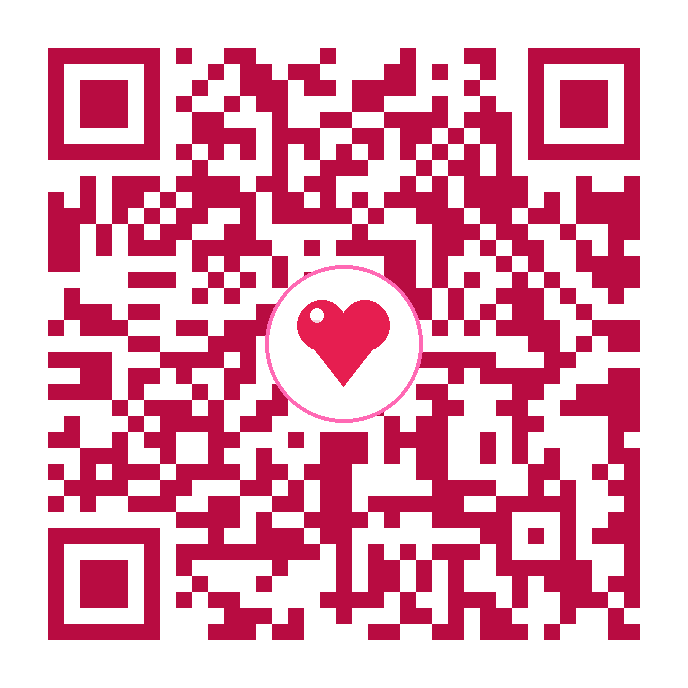
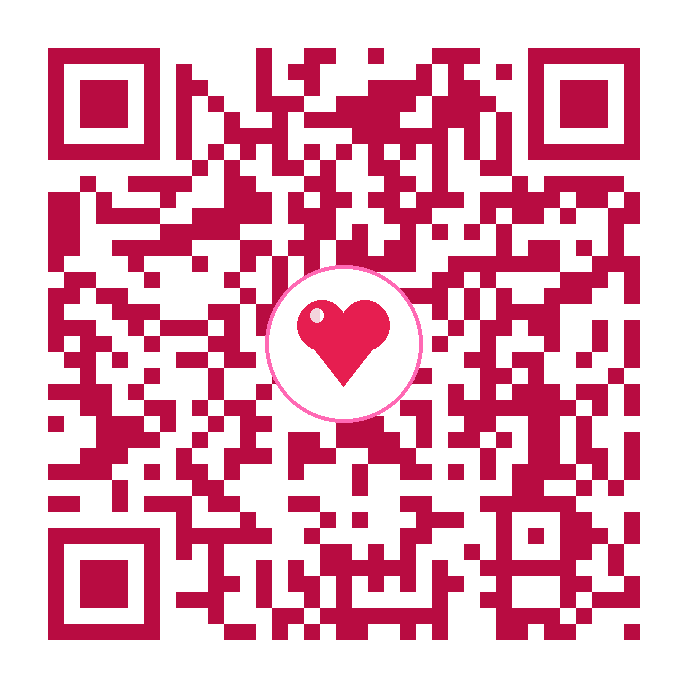
Optimización fluida 60fps, nuevo encuadre de foto y QR romántico

Changed region(s): [[0.061, 0.061, 0.9462, 0.9462], [0.8852, 0.3052, 0.9462, 0.3663]]

diff --git a/script.js b/script.js
@@ -34,10 +34,11 @@ document.addEventListener('DOMContentLoaded', () => {
   let musicInterval = null;
 
   // ==========================================================================
-  // MOTOR DE PARTÍCULAS EN CANVAS (LLUVIA Y EXPLOSIONES DE CORAZONES)
+  // MOTOR DE PARTÍCULAS EN CANVAS (ULTRA FLUIDO: 60-120 FPS)
+  // Utiliza sprites vectoriales pre-renderizados en GPU para cero lag
   // ==========================================================================
   const canvas = document.getElementById('particles-canvas');
-  const ctx = canvas.getContext('2d');
+  const ctx = canvas.getContext('2d', { alpha: true });
   let particles = [];
   let width = (canvas.width = window.innerWidth);
   let height = (canvas.height = window.innerHeight);
@@ -48,8 +49,31 @@ document.addEventListener('DOMContentLoaded', () => {
     height = canvas.height = window.innerHeight;
   });
 
-  // Lista de emojis y símbolos de amor para las partículas
-  const heartSymbols = ['❤', '💖', '💕', '💗', '💓', '✨', '🌸', '✨'];
+  // Pre-renderizar sprites de corazones una sola vez en memoria
+  const spriteColors = ['#ff2a6d', '#ff758c', '#d81159', '#ffbe0b', '#ffffff'];
+  const heartSprites = spriteColors.map(color => {
+    const offCanvas = document.createElement('canvas');
+    offCanvas.width = 44;
+    offCanvas.height = 44;
+    const offCtx = offCanvas.getContext('2d');
+    
+    offCtx.translate(22, 16);
+    offCtx.fillStyle = color;
+    offCtx.beginPath();
+    // Trazado de corazón paramétrico suave
+    offCtx.moveTo(0, 3);
+    offCtx.bezierCurveTo(-14, -12, -22, 6, 0, 22);
+    offCtx.bezierCurveTo(22, 6, 14, -12, 0, 3);
+    offCtx.fill();
+
+    // Brillo sutil blanco
+    offCtx.fillStyle = 'rgba(255, 255, 255, 0.45)';
+    offCtx.beginPath();
+    offCtx.arc(-6, -2, 2.5, 0, Math.PI * 2);
+    offCtx.fill();
+
+    return offCanvas;
+  });
 
   // Clase para partículas individuales
   class Particle {
@@ -57,47 +81,46 @@ document.addEventListener('DOMContentLoaded', () => {
       this.x = x;
       this.y = y;
       this.isExplosion = isExplosion;
-      this.symbol = heartSymbols[Math.floor(Math.random() * heartSymbols.length)];
+      this.sprite = heartSprites[Math.floor(Math.random() * heartSprites.length)];
       
       if (isExplosion) {
         // Velocidad radial en explosión
         const angle = Math.random() * Math.PI * 2;
-        const speed = Math.random() * 7 + 2.5;
+        const speed = Math.random() * 5.5 + 2.0;
         this.vx = Math.cos(angle) * speed;
-        this.vy = Math.sin(angle) * speed - 2.5; // Impulso hacia arriba
-        this.size = Math.random() * 22 + 14;
+        this.vy = Math.sin(angle) * speed - 2.0;
+        this.size = Math.random() * 18 + 14;
         this.opacity = 1;
-        this.decay = Math.random() * 0.015 + 0.008;
-        this.gravity = 0.12;
+        this.decay = Math.random() * 0.02 + 0.012;
+        this.gravity = 0.10;
         this.rotation = Math.random() * Math.PI;
-        this.vRotation = (Math.random() - 0.5) * 0.15;
+        this.vRotation = (Math.random() - 0.5) * 0.12;
       } else {
-        // Lluvia ambiental suave que sube flotando
-        this.vx = (Math.random() - 0.5) * 1.2;
-        this.vy = -(Math.random() * 1.5 + 0.8);
-        this.size = Math.random() * 18 + 12;
-        this.opacity = Math.random() * 0.7 + 0.3;
-        this.decay = 0.003;
+        // Lluvia ambiental suave que sube flotando elegantemente
+        this.vx = (Math.random() - 0.5) * 0.8;
+        this.vy = -(Math.random() * 1.4 + 0.8);
+        this.size = Math.random() * 16 + 12;
+        this.opacity = Math.random() * 0.6 + 0.35;
+        this.decay = 0.0035;
         this.gravity = 0;
         this.wobble = Math.random() * Math.PI * 2;
-        this.wobbleSpeed = Math.random() * 0.04 + 0.02;
-        this.rotation = (Math.random() - 0.5) * 0.4;
-        this.vRotation = (Math.random() - 0.5) * 0.02;
+        this.wobbleSpeed = Math.random() * 0.035 + 0.02;
+        this.rotation = (Math.random() - 0.5) * 0.3;
+        this.vRotation = (Math.random() - 0.5) * 0.015;
       }
     }
 
     update() {
       if (this.isExplosion) {
         this.vy += this.gravity;
-        this.vx *= 0.98;
+        this.vx *= 0.97;
         this.x += this.vx;
         this.y += this.vy;
         this.opacity -= this.decay;
         this.rotation += this.vRotation;
       } else {
-        // Movimiento ondulante suave
         this.wobble += this.wobbleSpeed;
-        this.x += this.vx + Math.sin(this.wobble) * 0.8;
+        this.x += this.vx + Math.sin(this.wobble) * 0.6;
         this.y += this.vy;
         this.opacity -= this.decay;
         this.rotation += this.vRotation;
@@ -105,30 +128,28 @@ document.addEventListener('DOMContentLoaded', () => {
     }
 
     draw(ctx) {
-      if (this.opacity <= 0) return;
+      if (this.opacity <= 0.01) return;
       ctx.save();
       ctx.translate(this.x, this.y);
       ctx.rotate(this.rotation);
-      ctx.globalAlpha = Math.max(0, this.opacity);
-      ctx.font = `${this.size}px serif`;
-      ctx.textAlign = 'center';
-      ctx.textBaseline = 'middle';
-      ctx.fillText(this.symbol, 0, 0);
+      ctx.globalAlpha = Math.max(0, Math.min(1, this.opacity));
+      const half = this.size / 2;
+      ctx.drawImage(this.sprite, -half, -half, this.size, this.size);
       ctx.restore();
     }
   }
 
-  // Crear ráfaga de corazones
-  function createBurst(x, y, count = 50) {
+  // Crear ráfaga de corazones limpia y sin saturar
+  function createBurst(x, y, count = 28) {
     for (let i = 0; i < count; i++) {
       particles.push(new Particle(x, y, true));
     }
   }
 
-  // Generador continuo de corazones flotantes de fondo
+  // Generador continuo de corazones flotantes de fondo (máximo 22 partículas)
   let ambientCounter = 0;
   function addAmbientHeart() {
-    if (particles.length < 80) {
+    if (particles.length < 22) {
       const x = Math.random() * width;
       const y = height + 20;
       particles.push(new Particle(x, y, false));
@@ -140,7 +161,7 @@ document.addEventListener('DOMContentLoaded', () => {
     ctx.clearRect(0, 0, width, height);
 
     ambientCounter++;
-    if (ambientCounter % 15 === 0) {
+    if (ambientCounter % 20 === 0) {
       addAmbientHeart();
     }
 
@@ -294,11 +315,11 @@ document.addEventListener('DOMContentLoaded', () => {
     // Activar animación de separación en el corazón exterior
     heartSplitCard.classList.add('opened');
 
-    // Explosión de corazones desde el centro
+    // Explosión de corazones desde el centro (ligera y fluida)
     const rect = heartSplitCard.getBoundingClientRect();
     const centerX = rect.left + rect.width / 2;
     const centerY = rect.top + rect.height / 2;
-    createBurst(centerX, centerY, 70);
+    createBurst(centerX, centerY, 24);
 
     // Ocultar caja exterior y revelar el corazón con la foto y textos
     setTimeout(() => {
@@ -307,7 +328,7 @@ document.addEventListener('DOMContentLoaded', () => {
       revealedContent.setAttribute('aria-hidden', 'false');
 
       // Segunda ráfaga suave de celebración
-      createBurst(centerX, centerY - 60, 40);
+      createBurst(centerX, centerY - 40, 14);
     }, 650);
   }
 
@@ -341,7 +362,7 @@ document.addEventListener('DOMContentLoaded', () => {
   btnBurst.addEventListener('click', (e) => {
     e.stopPropagation();
     const rect = btnBurst.getBoundingClientRect();
-    createBurst(rect.left + rect.width / 2, rect.top, 45);
+    createBurst(rect.left + rect.width / 2, rect.top, 18);
     playMelodyNote(523.25, 0, 0.8);
     playMelodyNote(659.25, 0.1, 0.8);
   });
@@ -350,7 +371,7 @@ document.addEventListener('DOMContentLoaded', () => {
   window.addEventListener('pointerdown', (e) => {
     // Si no es un botón ni modal, generar corazones en la posición del toque
     if (!e.target.closest('button') && !e.target.closest('.qr-modal-card')) {
-      createBurst(e.clientX, e.clientY, 10);
+      createBurst(e.clientX, e.clientY, 6);
     }
   });
 

diff --git a/index.html b/index.html
@@ -117,17 +117,6 @@
               <path d="M250,440 C240,430 40,300 15,190 C-10,80 70,10 170,15 C215,17 240,55 250,75 C260,55 285,17 330,15 C430,10 510,80 485,190 C460,300 260,430 250,440 Z" />
             </clipPath>
 
-            <!-- Filtro de resplandor neón mágico -->
-            <filter id="heart-glow" x="-30%" y="-30%" width="160%" height="160%">
-              <feGaussianBlur stdDeviation="10" result="blur1" />
-              <feGaussianBlur stdDeviation="20" result="blur2" />
-              <feMerge>
-                <feMergeNode in="blur2" />
-                <feMergeNode in="blur1" />
-                <feMergeNode in="SourceGraphic" />
-              </feMerge>
-            </filter>
-
             <!-- Gradiente para el borde del corazón -->
             <linearGradient id="heart-border-gradient" x1="0%" y1="0%" x2="100%" y2="100%">
               <stop offset="0%" stop-color="#ff758c" />
@@ -140,22 +129,32 @@
           <path d="M250,440 C240,430 40,300 15,190 C-10,80 70,10 170,15 C215,17 240,55 250,75 C260,55 285,17 330,15 C430,10 510,80 485,190 C460,300 260,430 250,440 Z" 
                 fill="#2b0014" />
 
-          <!-- Imagen con recorte de corazón, perfectamente encuadrada en el abrazo -->
+          <!-- Imagen con recorte de corazón, centrada con precisión en los rostros y el abrazo -->
           <g clip-path="url(#inner-heart-clip)">
-            <image href="foto.png" xlink:href="foto.png" x="5" y="-125" width="490" height="765" preserveAspectRatio="xMidYMid slice" />
+            <image href="foto.png" xlink:href="foto.png" x="-15" y="-220" width="530" height="832" preserveAspectRatio="xMidYMid slice" />
           </g>
 
-          <!-- Borde brillante exterior que contornea el corazón -->
+          <!-- Halo de luz neón ultra fluido (100% vectorial, 0ms de lag) -->
+          <path d="M250,440 C240,430 40,300 15,190 C-10,80 70,10 170,15 C215,17 240,55 250,75 C260,55 285,17 330,15 C430,10 510,80 485,190 C460,300 260,430 250,440 Z" 
+                fill="none" 
+                stroke="rgba(255, 42, 109, 0.22)" 
+                stroke-width="26" />
+
+          <path d="M250,440 C240,430 40,300 15,190 C-10,80 70,10 170,15 C215,17 240,55 250,75 C260,55 285,17 330,15 C430,10 510,80 485,190 C460,300 260,430 250,440 Z" 
+                fill="none" 
+                stroke="rgba(255, 75, 114, 0.45)" 
+                stroke-width="13" />
+
+          <!-- Borde brillante principal con degradado cálido -->
           <path d="M250,440 C240,430 40,300 15,190 C-10,80 70,10 170,15 C215,17 240,55 250,75 C260,55 285,17 330,15 C430,10 510,80 485,190 C460,300 260,430 250,440 Z" 
                 fill="none" 
                 stroke="url(#heart-border-gradient)" 
-                stroke-width="7" 
-                filter="url(#heart-glow)" />
+                stroke-width="6" />
 
           <!-- Borde interior dorado delicado -->
           <path d="M250,425 C242,415 55,290 32,188 C10,88 82,24 172,28 C212,30 235,62 250,82 C265,62 288,30 328,28 C418,24 490,88 468,188 C445,290 258,415 250,425 Z" 
                 fill="none" 
-                stroke="rgba(255, 255, 255, 0.6)" 
+                stroke="rgba(255, 255, 255, 0.7)" 
                 stroke-width="2" />
         </svg>
 
@@ -216,7 +215,7 @@
         <img src="qr_romantico.png" alt="Código QR Romántico" id="qrImage" />
       </div>
 
-      <p class="qr-url-hint">URL local: <code id="qrUrlText">http://192.168.0.8:8000</code></p>
+      <p class="qr-url-hint">Enlace: <code id="qrUrlText">https://tinyurl.com/mi-amor-bonito-para-ti</code></p>
       
       <div class="qr-modal-actions">
         <a href="qr_romantico.png" download="QR_Mi_Amor_Bonito.png" class="btn-action btn-download">

diff --git a/style.css b/style.css
@@ -57,21 +57,21 @@ body {
   z-index: 1;
 }
 
-/* Luces ambientales con efecto de nebulosa romántica */
+/* Luces ambientales optimizadas con degradado puro (sin filtros de desenfoque que causan lag) */
 .ambient-glow {
   position: fixed;
   border-radius: 50%;
-  filter: blur(90px);
   pointer-events: none;
   z-index: 0;
-  opacity: 0.55;
-  animation: floatAmbient 8s ease-in-out infinite alternate;
+  opacity: 0.65;
+  will-change: transform;
+  animation: floatAmbient 10s ease-in-out infinite alternate;
 }
 
 .glow-1 {
   width: 320px;
   height: 320px;
-  background: radial-gradient(circle, rgba(255, 42, 109, 0.4) 0%, transparent 70%);
+  background: radial-gradient(circle, rgba(255, 42, 109, 0.28) 0%, rgba(255, 42, 109, 0.08) 45%, transparent 70%);
   top: 15%;
   left: 10%;
 }
@@ -79,15 +79,15 @@ body {
 .glow-2 {
   width: 360px;
   height: 360px;
-  background: radial-gradient(circle, rgba(184, 12, 65, 0.35) 0%, transparent 70%);
+  background: radial-gradient(circle, rgba(184, 12, 65, 0.25) 0%, rgba(184, 12, 65, 0.06) 45%, transparent 70%);
   bottom: 10%;
   right: 10%;
-  animation-delay: -4s;
+  animation-delay: -5s;
 }
 
 @keyframes floatAmbient {
-  0% { transform: translate(0, 0) scale(1); }
-  100% { transform: translate(30px, -20px) scale(1.15); }
+  0% { transform: translate3d(0, 0, 0); }
+  100% { transform: translate3d(25px, -15px, 0); }
 }
 
 /* Contenedor central */
@@ -294,15 +294,16 @@ body {
   transform: scale(1) translateY(0);
 }
 
-/* Contenedor del marco de foto de corazón */
+/* Contenedor del marco de foto de corazón (ultra optimizado para 60-120fps) */
 .heart-frame-container {
   position: relative;
   width: 320px;
   max-width: 90vw;
   height: 300px;
   margin: 0 auto;
-  filter: drop-shadow(0 15px 35px rgba(255, 42, 109, 0.45));
-  animation: heartPhotoFloat 3.8s ease-in-out infinite alternate;
+  will-change: transform;
+  transform: translate3d(0, 0, 0);
+  animation: heartPhotoFloat 3.2s ease-in-out infinite alternate;
 }
 
 .heart-photo-svg {
@@ -312,10 +313,10 @@ body {
   overflow: visible;
 }
 
-/* Movimiento de respiración suave para la foto */
+/* Movimiento suave acelerado por GPU (cero repintados, cero lag) */
 @keyframes heartPhotoFloat {
-  0% { transform: translateY(0) scale(1); filter: drop-shadow(0 12px 30px rgba(255, 42, 109, 0.4)); }
-  100% { transform: translateY(-8px) scale(1.02); filter: drop-shadow(0 18px 45px rgba(255, 42, 109, 0.65)); }
+  0% { transform: translate3d(0, 0, 0) scale(1); }
+  100% { transform: translate3d(0, -7px, 0) scale(1.018); }
 }
 
 /* Destellos flotantes alrededor de la foto */
